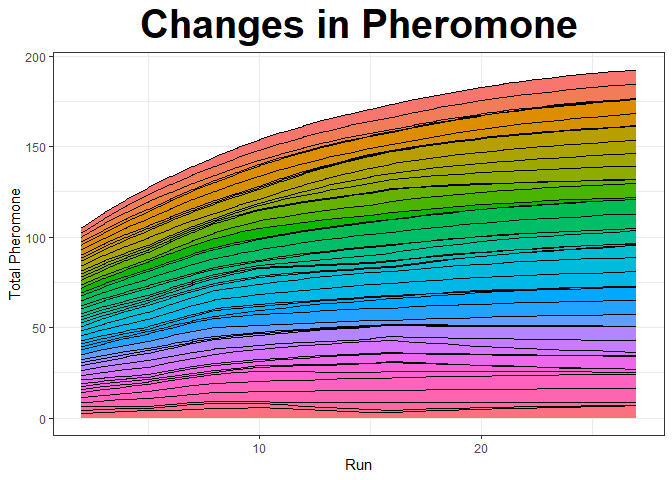
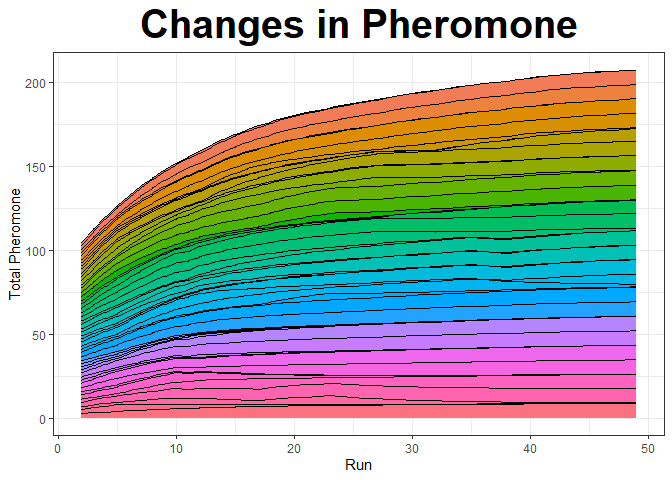
v0.5.4 updates

diff --git a/README.md b/README.md
@@ -21,7 +21,7 @@ Volume 25(2); not available online) used SA for multiple regression
 model selection; this package appears to be the first to implement SA
 for psychometric models.
 
-This document was created on 2023-12-12.
+This document was created on 2024-05-22.
 
 ## Installation
 
@@ -42,7 +42,7 @@ Intel Core i7 8th Gen processor is printed at the bottom. See the
 
 ``` r
 sessionInfo()
-##  R version 4.3.2 (2023-10-31 ucrt)
+##  R version 4.3.3 (2024-02-29 ucrt)
 ##  Platform: x86_64-w64-mingw32/x64 (64-bit)
 ##  Running under: Windows 11 x64 (build 22621)
 ##  
@@ -63,9 +63,9 @@ sessionInfo()
 ##  [1] stats     graphics  grDevices utils     datasets  methods   base     
 ##  
 ##  loaded via a namespace (and not attached):
-##   [1] compiler_4.3.2    fastmap_1.1.1     cli_3.6.1         tools_4.3.2      
-##   [5] htmltools_0.5.7   rstudioapi_0.15.0 yaml_2.3.7        rmarkdown_2.25   
-##   [9] knitr_1.45        xfun_0.41         digest_0.6.33     rlang_1.1.2      
+##   [1] compiler_4.3.3    fastmap_1.1.1     cli_3.6.2         tools_4.3.3      
+##   [5] htmltools_0.5.7   rstudioapi_0.15.0 yaml_2.3.8        rmarkdown_2.26   
+##   [9] knitr_1.45        xfun_0.42         digest_0.6.35     rlang_1.1.3      
 ##  [13] evaluate_0.23
 ```
 
@@ -74,7 +74,7 @@ sessionInfo()
 ``` r
 start.time.ACO <- Sys.time()
 library(ShortForm, quietly = T)
-##  Package 'ShortForm' version 0.5.3
+##  Package 'ShortForm' version 0.5.4
 # using simulated test data and the default values for lavaan.model.specs
 set.seed(1)
 # create simulation data from the `psych` package
@@ -143,10 +143,10 @@ abilityShortForm =
                    factors = c("Trait1", "Trait2", "Trait3", "Trait4"), steps = 100, 
                    max.run = 100, 
                    parallel = T)
-##   Run number 1 and ant number 1.            Run number 1 and ant number 2.            Run number 1 and ant number 3.            Run number 1 and ant number 4.            Run number 1 and ant number 5.            Run number 1 and ant number 6.            Run number 1 and ant number 7.            Run number 1 and ant number 8.            Run number 1 and ant number 9.            Run number 1 and ant number 10.            Run number 2 and ant number 1.            Run number 2 and ant number 2.            Run number 2 and ant number 3.            Run number 2 and ant number 4.            Run number 2 and ant number 5.            Run number 2 and ant number 6.            Run number 2 and ant number 7.            Run number 2 and ant number 8.            Run number 2 and ant number 9.            Run number 2 and ant number 10.            Run number 3 and ant number 1.            Run number 3 and ant number 2.            Run number 3 and ant number 3.            Run number 3 and ant number 4.            Run number 3 and ant number 5.            Run number 3 and ant number 6.            Run number 3 and ant number 7.            Run number 3 and ant number 8.            Run number 3 and ant number 9.            Run number 3 and ant number 10.            Run number 4 and ant number 1.            Run number 4 and ant number 2.            Run number 4 and ant number 3.            Run number 4 and ant number 4.            Run number 4 and ant number 5.            Run number 4 and ant number 6.            Run number 4 and ant number 7.            Run number 4 and ant number 8.            Run number 4 and ant number 9.            Run number 4 and ant number 10.            Run number 5 and ant number 1.            Run number 5 and ant number 2.            Run number 5 and ant number 3.            Run number 5 and ant number 4.            Run number 5 and ant number 5.            Run number 5 and ant number 6.            Run number 5 and ant number 7.            Run number 5 and ant number 8.            Run number 5 and ant number 9.            Run number 5 and ant number 10.            Run number 6 and ant number 1.            Run number 6 and ant number 2.            Run number 6 and ant number 3.            Run number 6 and ant number 4.            Run number 6 and ant number 5.            Run number 6 and ant number 6.            Run number 6 and ant number 7.            Run number 6 and ant number 8.            Run number 6 and ant number 9.            Run number 6 and ant number 10.            Run number 7 and ant number 1.            Run number 7 and ant number 2.            Run number 7 and ant number 3.            Run number 7 and ant number 4.            Run number 7 and ant number 5.            Run number 7 and ant number 6.            Run number 7 and ant number 7.            Run number 7 and ant number 8.            Run number 7 and ant number 9.            Run number 7 and ant number 10.            Run number 8 and ant number 1.            Run number 8 and ant number 2.            Run number 8 and ant number 3.            Run number 8 and ant number 4.            Run number 8 and ant number 5.            Run number 8 and ant number 6.            Run number 8 and ant number 7.            Run number 8 and ant number 8.            Run number 8 and ant number 9.            Run number 8 and ant number 10.            Run number 9 and ant number 1.            Run number 9 and ant number 2.            Run number 9 and ant number 3.            Run number 9 and ant number 4.            Run number 9 and ant number 5.            Run number 9 and ant number 6.            Run number 9 and ant number 7.            Run number 9 and ant number 8.            Run number 9 and ant number 9.            Run number 9 and ant number 10.            Run number 10 and ant number 1.            Run number 10 and ant number 2.            Run number 10 and ant number 3.            Run number 10 and ant number 4.            Run number 10 and ant number 5.            Run number 10 and ant number 6.            Run number 10 and ant number 7.            Run number 10 and ant number 8.            Run number 10 and ant number 9.            Run number 10 and ant number 10.            Run number 11 and ant number 1.            Run number 11 and ant number 2.            Run number 11 and ant number 3.            Run number 11 and ant number 4.            Run number 11 and ant number 5.            Run number 11 and ant number 6.            Run number 11 and ant number 7.            Run number 11 and ant number 8.            Run number 11 and ant number 9.            Run number 11 and ant number 10.            Run number 12 and ant number 1.            Run number 12 and ant number 2.            Run number 12 and ant number 3.            Run number 12 and ant number 4.            Run number 12 and ant number 5.            Run number 12 and ant number 6.            Run number 12 and ant number 7.            Run number 12 and ant number 8.            Run number 12 and ant number 9.            Run number 12 and ant number 10.            Run number 13 and ant number 1.            Run number 13 and ant number 2.            Run number 13 and ant number 3.            Run number 13 and ant number 4.            Run number 13 and ant number 5.            Run number 13 and ant number 6.            Run number 13 and ant number 7.            Run number 13 and ant number 8.            Run number 13 and ant number 9.            Run number 13 and ant number 10.            Run number 14 and ant number 1.            Run number 14 and ant number 2.            Run number 14 and ant number 3.            Run number 14 and ant number 4.            Run number 14 and ant number 5.            Run number 14 and ant number 6.            Run number 14 and ant number 7.            Run number 14 and ant number 8.            Run number 14 and ant number 9.            Run number 14 and ant number 10.            Run number 15 and ant number 1.            Run number 15 and ant number 2.            Run number 15 and ant number 3.            Run number 15 and ant number 4.            Run number 15 and ant number 5.            Run number 15 and ant number 6.            Run number 15 and ant number 7.            Run number 15 and ant number 8.            Run number 15 and ant number 9.            Run number 15 and ant number 10.            Run number 16 and ant number 1.            Run number 16 and ant number 2.            Run number 16 and ant number 3.            Run number 16 and ant number 4.            Run number 16 and ant number 5.            Run number 16 and ant number 6.            Run number 16 and ant number 7.            Run number 16 and ant number 8.            Run number 16 and ant number 9.            Run number 16 and ant number 10.            Run number 17 and ant number 1.            Run number 17 and ant number 2.            Run number 17 and ant number 3.            Run number 17 and ant number 4.            Run number 17 and ant number 5.            Run number 17 and ant number 6.            Run number 17 and ant number 7.            Run number 17 and ant number 8.            Run number 17 and ant number 9.            Run number 17 and ant number 10.            Run number 18 and ant number 1.            Run number 18 and ant number 2.            Run number 18 and ant number 3.            Run number 18 and ant number 4.            Run number 18 and ant number 5.            Run number 18 and ant number 6.            Run number 18 and ant number 7.            Run number 18 and ant number 8.            Run number 18 and ant number 9.            Run number 18 and ant number 10.            Run number 19 and ant number 1.            Run number 19 and ant number 2.            Run number 19 and ant number 3.            Run number 19 and ant number 4.            Run number 19 and ant number 5.            Run number 19 and ant number 6.            Run number 19 and ant number 7.            Run number 19 and ant number 8.            Run number 19 and ant number 9.            Run number 19 and ant number 10.            Run number 20 and ant number 1.            Run number 20 and ant number 2.            Run number 20 and ant number 3.            Run number 20 and ant number 4.            Run number 20 and ant number 5.            Run number 20 and ant number 6.            Run number 20 and ant number 7.            Run number 20 and ant number 8.            Run number 20 and ant number 9.            Run number 20 and ant number 10.            Run number 21 and ant number 1.            Run number 21 and ant number 2.            Run number 21 and ant number 3.            Run number 21 and ant number 4.            Run number 21 and ant number 5.            Run number 21 and ant number 6.            Run number 21 and ant number 7.            Run number 21 and ant number 8.            Run number 21 and ant number 9.            Run number 21 and ant number 10.            Run number 22 and ant number 1.            Run number 22 and ant number 2.            Run number 22 and ant number 3.            Run number 22 and ant number 4.            Run number 22 and ant number 5.            Run number 22 and ant number 6.            Run number 22 and ant number 7.            Run number 22 and ant number 8.            Run number 22 and ant number 9.            Run number 22 and ant number 10.            Run number 23 and ant number 1.            Run number 23 and ant number 2.            Run number 23 and ant number 3.            Run number 23 and ant number 4.            Run number 23 and ant number 5.            Run number 23 and ant number 6.            Run number 23 and ant number 7.            Run number 23 and ant number 8.            Run number 23 and ant number 9.            Run number 23 and ant number 10.            Run number 24 and ant number 1.            Run number 24 and ant number 2.            Run number 24 and ant number 3.            Run number 24 and ant number 4.            Run number 24 and ant number 5.            Run number 24 and ant number 6.            Run number 24 and ant number 7.            Run number 24 and ant number 8.            Run number 24 and ant number 9.            Run number 24 and ant number 10.            Run number 25 and ant number 1.            Run number 25 and ant number 2.            Run number 25 and ant number 3.            Run number 25 and ant number 4.            Run number 25 and ant number 5.            Run number 25 and ant number 6.            Run number 25 and ant number 7.            Run number 25 and ant number 8.            Run number 25 and ant number 9.            Run number 25 and ant number 10.            Run number 26 and ant number 1.            Run number 26 and ant number 2.            Run number 26 and ant number 3.            Run number 26 and ant number 4.            Run number 26 and ant number 5.            Run number 26 and ant number 6.            Run number 26 and ant number 7.            Run number 26 and ant number 8.            Run number 26 and ant number 9.            Run number 26 and ant number 10.           [1] "Compiling results."
+##   Run number 1 and ant number 1.            Run number 1 and ant number 2.            Run number 1 and ant number 3.            Run number 1 and ant number 4.            Run number 1 and ant number 5.            Run number 1 and ant number 6.            Run number 1 and ant number 7.            Run number 1 and ant number 8.            Run number 1 and ant number 9.            Run number 1 and ant number 10.            Run number 2 and ant number 1.            Run number 2 and ant number 2.            Run number 2 and ant number 3.            Run number 2 and ant number 4.            Run number 2 and ant number 5.            Run number 2 and ant number 6.            Run number 2 and ant number 7.            Run number 2 and ant number 8.            Run number 2 and ant number 9.            Run number 2 and ant number 10.            Run number 3 and ant number 1.            Run number 3 and ant number 2.            Run number 3 and ant number 3.            Run number 3 and ant number 4.            Run number 3 and ant number 5.            Run number 3 and ant number 6.            Run number 3 and ant number 7.            Run number 3 and ant number 8.            Run number 3 and ant number 9.            Run number 3 and ant number 10.            Run number 4 and ant number 1.            Run number 4 and ant number 2.            Run number 4 and ant number 3.            Run number 4 and ant number 4.            Run number 4 and ant number 5.            Run number 4 and ant number 6.            Run number 4 and ant number 7.            Run number 4 and ant number 8.            Run number 4 and ant number 9.            Run number 4 and ant number 10.            Run number 5 and ant number 1.            Run number 5 and ant number 2.            Run number 5 and ant number 3.            Run number 5 and ant number 4.            Run number 5 and ant number 5.            Run number 5 and ant number 6.            Run number 5 and ant number 7.            Run number 5 and ant number 8.            Run number 5 and ant number 9.            Run number 5 and ant number 10.            Run number 6 and ant number 1.            Run number 6 and ant number 2.            Run number 6 and ant number 3.            Run number 6 and ant number 4.            Run number 6 and ant number 5.            Run number 6 and ant number 6.            Run number 6 and ant number 7.            Run number 6 and ant number 8.            Run number 6 and ant number 9.            Run number 6 and ant number 10.            Run number 7 and ant number 1.            Run number 7 and ant number 2.            Run number 7 and ant number 3.            Run number 7 and ant number 4.            Run number 7 and ant number 5.            Run number 7 and ant number 6.            Run number 7 and ant number 7.            Run number 7 and ant number 8.            Run number 7 and ant number 9.            Run number 7 and ant number 10.            Run number 8 and ant number 1.            Run number 8 and ant number 2.            Run number 8 and ant number 3.            Run number 8 and ant number 4.            Run number 8 and ant number 5.            Run number 8 and ant number 6.            Run number 8 and ant number 7.            Run number 8 and ant number 8.            Run number 8 and ant number 9.            Run number 8 and ant number 10.            Run number 9 and ant number 1.            Run number 9 and ant number 2.            Run number 9 and ant number 3.            Run number 9 and ant number 4.            Run number 9 and ant number 5.            Run number 9 and ant number 6.            Run number 9 and ant number 7.            Run number 9 and ant number 8.            Run number 9 and ant number 9.            Run number 9 and ant number 10.            Run number 10 and ant number 1.            Run number 10 and ant number 2.            Run number 10 and ant number 3.            Run number 10 and ant number 4.            Run number 10 and ant number 5.            Run number 10 and ant number 6.            Run number 10 and ant number 7.            Run number 10 and ant number 8.            Run number 10 and ant number 9.            Run number 10 and ant number 10.            Run number 11 and ant number 1.            Run number 11 and ant number 2.            Run number 11 and ant number 3.            Run number 11 and ant number 4.            Run number 11 and ant number 5.            Run number 11 and ant number 6.            Run number 11 and ant number 7.            Run number 11 and ant number 8.            Run number 11 and ant number 9.            Run number 11 and ant number 10.            Run number 12 and ant number 1.            Run number 12 and ant number 2.            Run number 12 and ant number 3.            Run number 12 and ant number 4.            Run number 12 and ant number 5.            Run number 12 and ant number 6.            Run number 12 and ant number 7.            Run number 12 and ant number 8.            Run number 12 and ant number 9.            Run number 12 and ant number 10.            Run number 13 and ant number 1.            Run number 13 and ant number 2.            Run number 13 and ant number 3.            Run number 13 and ant number 4.            Run number 13 and ant number 5.            Run number 13 and ant number 6.            Run number 13 and ant number 7.            Run number 13 and ant number 8.            Run number 13 and ant number 9.            Run number 13 and ant number 10.            Run number 14 and ant number 1.            Run number 14 and ant number 2.            Run number 14 and ant number 3.            Run number 14 and ant number 4.            Run number 14 and ant number 5.            Run number 14 and ant number 6.            Run number 14 and ant number 7.            Run number 14 and ant number 8.            Run number 14 and ant number 9.            Run number 14 and ant number 10.            Run number 15 and ant number 1.            Run number 15 and ant number 2.            Run number 15 and ant number 3.            Run number 15 and ant number 4.            Run number 15 and ant number 5.            Run number 15 and ant number 6.            Run number 15 and ant number 7.            Run number 15 and ant number 8.            Run number 15 and ant number 9.            Run number 15 and ant number 10.            Run number 16 and ant number 1.            Run number 16 and ant number 2.            Run number 16 and ant number 3.            Run number 16 and ant number 4.            Run number 16 and ant number 5.            Run number 16 and ant number 6.            Run number 16 and ant number 7.            Run number 16 and ant number 8.            Run number 16 and ant number 9.            Run number 16 and ant number 10.            Run number 17 and ant number 1.            Run number 17 and ant number 2.            Run number 17 and ant number 3.            Run number 17 and ant number 4.            Run number 17 and ant number 5.            Run number 17 and ant number 6.            Run number 17 and ant number 7.            Run number 17 and ant number 8.            Run number 17 and ant number 9.            Run number 17 and ant number 10.            Run number 18 and ant number 1.            Run number 18 and ant number 2.            Run number 18 and ant number 3.            Run number 18 and ant number 4.            Run number 18 and ant number 5.            Run number 18 and ant number 6.            Run number 18 and ant number 7.            Run number 18 and ant number 8.            Run number 18 and ant number 9.            Run number 18 and ant number 10.            Run number 19 and ant number 1.            Run number 19 and ant number 2.            Run number 19 and ant number 3.            Run number 19 and ant number 4.            Run number 19 and ant number 5.            Run number 19 and ant number 6.            Run number 19 and ant number 7.            Run number 19 and ant number 8.            Run number 19 and ant number 9.            Run number 19 and ant number 10.            Run number 20 and ant number 1.            Run number 20 and ant number 2.            Run number 20 and ant number 3.            Run number 20 and ant number 4.            Run number 20 and ant number 5.            Run number 20 and ant number 6.            Run number 20 and ant number 7.            Run number 20 and ant number 8.            Run number 20 and ant number 9.            Run number 20 and ant number 10.            Run number 21 and ant number 1.            Run number 21 and ant number 2.            Run number 21 and ant number 3.            Run number 21 and ant number 4.            Run number 21 and ant number 5.            Run number 21 and ant number 6.            Run number 21 and ant number 7.            Run number 21 and ant number 8.            Run number 21 and ant number 9.            Run number 21 and ant number 10.            Run number 22 and ant number 1.            Run number 22 and ant number 2.            Run number 22 and ant number 3.            Run number 22 and ant number 4.            Run number 22 and ant number 5.            Run number 22 and ant number 6.            Run number 22 and ant number 7.            Run number 22 and ant number 8.            Run number 22 and ant number 9.            Run number 22 and ant number 10.            Run number 23 and ant number 1.            Run number 23 and ant number 2.            Run number 23 and ant number 3.            Run number 23 and ant number 4.            Run number 23 and ant number 5.            Run number 23 and ant number 6.            Run number 23 and ant number 7.            Run number 23 and ant number 8.            Run number 23 and ant number 9.            Run number 23 and ant number 10.            Run number 24 and ant number 1.            Run number 24 and ant number 2.            Run number 24 and ant number 3.            Run number 24 and ant number 4.            Run number 24 and ant number 5.            Run number 24 and ant number 6.            Run number 24 and ant number 7.            Run number 24 and ant number 8.            Run number 24 and ant number 9.            Run number 24 and ant number 10.            Run number 25 and ant number 1.            Run number 25 and ant number 2.            Run number 25 and ant number 3.            Run number 25 and ant number 4.            Run number 25 and ant number 5.            Run number 25 and ant number 6.            Run number 25 and ant number 7.            Run number 25 and ant number 8.            Run number 25 and ant number 9.            Run number 25 and ant number 10.            Run number 26 and ant number 1.            Run number 26 and ant number 2.            Run number 26 and ant number 3.            Run number 26 and ant number 4.            Run number 26 and ant number 5.            Run number 26 and ant number 6.            Run number 26 and ant number 7.            Run number 26 and ant number 8.            Run number 26 and ant number 9.            Run number 26 and ant number 10.            Run number 27 and ant number 1.            Run number 27 and ant number 2.            Run number 27 and ant number 3.            Run number 27 and ant number 4.            Run number 27 and ant number 5.            Run number 27 and ant number 6.            Run number 27 and ant number 7.            Run number 27 and ant number 8.            Run number 27 and ant number 9.            Run number 27 and ant number 10.            Run number 28 and ant number 1.            Run number 28 and ant number 2.            Run number 28 and ant number 3.            Run number 28 and ant number 4.            Run number 28 and ant number 5.            Run number 28 and ant number 6.            Run number 28 and ant number 7.            Run number 28 and ant number 8.            Run number 28 and ant number 9.            Run number 28 and ant number 10.            Run number 29 and ant number 1.            Run number 29 and ant number 2.            Run number 29 and ant number 3.            Run number 29 and ant number 4.            Run number 29 and ant number 5.            Run number 29 and ant number 6.            Run number 29 and ant number 7.            Run number 29 and ant number 8.            Run number 29 and ant number 9.            Run number 29 and ant number 10.            Run number 30 and ant number 1.            Run number 30 and ant number 2.            Run number 30 and ant number 3.            Run number 30 and ant number 4.            Run number 30 and ant number 5.            Run number 30 and ant number 6.            Run number 30 and ant number 7.            Run number 30 and ant number 8.            Run number 30 and ant number 9.            Run number 30 and ant number 10.            Run number 31 and ant number 1.            Run number 31 and ant number 2.            Run number 31 and ant number 3.            Run number 31 and ant number 4.            Run number 31 and ant number 5.            Run number 31 and ant number 6.            Run number 31 and ant number 7.            Run number 31 and ant number 8.            Run number 31 and ant number 9.            Run number 31 and ant number 10.            Run number 32 and ant number 1.            Run number 32 and ant number 2.            Run number 32 and ant number 3.            Run number 32 and ant number 4.            Run number 32 and ant number 5.            Run number 32 and ant number 6.            Run number 32 and ant number 7.            Run number 32 and ant number 8.            Run number 32 and ant number 9.            Run number 32 and ant number 10.            Run number 33 and ant number 1.            Run number 33 and ant number 2.            Run number 33 and ant number 3.            Run number 33 and ant number 4.            Run number 33 and ant number 5.            Run number 33 and ant number 6.            Run number 33 and ant number 7.            Run number 33 and ant number 8.            Run number 33 and ant number 9.            Run number 33 and ant number 10.            Run number 34 and ant number 1.            Run number 34 and ant number 2.            Run number 34 and ant number 3.            Run number 34 and ant number 4.            Run number 34 and ant number 5.            Run number 34 and ant number 6.            Run number 34 and ant number 7.            Run number 34 and ant number 8.            Run number 34 and ant number 9.            Run number 34 and ant number 10.            Run number 35 and ant number 1.            Run number 35 and ant number 2.            Run number 35 and ant number 3.            Run number 35 and ant number 4.            Run number 35 and ant number 5.            Run number 35 and ant number 6.            Run number 35 and ant number 7.            Run number 35 and ant number 8.            Run number 35 and ant number 9.            Run number 35 and ant number 10.            Run number 36 and ant number 1.            Run number 36 and ant number 2.            Run number 36 and ant number 3.            Run number 36 and ant number 4.            Run number 36 and ant number 5.            Run number 36 and ant number 6.            Run number 36 and ant number 7.            Run number 36 and ant number 8.            Run number 36 and ant number 9.            Run number 36 and ant number 10.            Run number 37 and ant number 1.            Run number 37 and ant number 2.            Run number 37 and ant number 3.            Run number 37 and ant number 4.            Run number 37 and ant number 5.            Run number 37 and ant number 6.            Run number 37 and ant number 7.            Run number 37 and ant number 8.            Run number 37 and ant number 9.            Run number 37 and ant number 10.            Run number 38 and ant number 1.            Run number 38 and ant number 2.            Run number 38 and ant number 3.            Run number 38 and ant number 4.            Run number 38 and ant number 5.            Run number 38 and ant number 6.            Run number 38 and ant number 7.            Run number 38 and ant number 8.            Run number 38 and ant number 9.            Run number 38 and ant number 10.            Run number 39 and ant number 1.            Run number 39 and ant number 2.            Run number 39 and ant number 3.            Run number 39 and ant number 4.            Run number 39 and ant number 5.            Run number 39 and ant number 6.            Run number 39 and ant number 7.            Run number 39 and ant number 8.            Run number 39 and ant number 9.            Run number 39 and ant number 10.            Run number 40 and ant number 1.            Run number 40 and ant number 2.            Run number 40 and ant number 3.            Run number 40 and ant number 4.            Run number 40 and ant number 5.            Run number 40 and ant number 6.            Run number 40 and ant number 7.            Run number 40 and ant number 8.            Run number 40 and ant number 9.            Run number 40 and ant number 10.            Run number 41 and ant number 1.            Run number 41 and ant number 2.            Run number 41 and ant number 3.            Run number 41 and ant number 4.            Run number 41 and ant number 5.            Run number 41 and ant number 6.            Run number 41 and ant number 7.            Run number 41 and ant number 8.            Run number 41 and ant number 9.            Run number 41 and ant number 10.            Run number 42 and ant number 1.            Run number 42 and ant number 2.            Run number 42 and ant number 3.            Run number 42 and ant number 4.            Run number 42 and ant number 5.            Run number 42 and ant number 6.            Run number 42 and ant number 7.            Run number 42 and ant number 8.            Run number 42 and ant number 9.            Run number 42 and ant number 10.            Run number 43 and ant number 1.            Run number 43 and ant number 2.            Run number 43 and ant number 3.            Run number 43 and ant number 4.            Run number 43 and ant number 5.            Run number 43 and ant number 6.            Run number 43 and ant number 7.            Run number 43 and ant number 8.            Run number 43 and ant number 9.            Run number 43 and ant number 10.            Run number 44 and ant number 1.            Run number 44 and ant number 2.            Run number 44 and ant number 3.            Run number 44 and ant number 4.            Run number 44 and ant number 5.            Run number 44 and ant number 6.            Run number 44 and ant number 7.            Run number 44 and ant number 8.            Run number 44 and ant number 9.            Run number 44 and ant number 10.            Run number 45 and ant number 1.            Run number 45 and ant number 2.            Run number 45 and ant number 3.            Run number 45 and ant number 4.            Run number 45 and ant number 5.            Run number 45 and ant number 6.            Run number 45 and ant number 7.            Run number 45 and ant number 8.            Run number 45 and ant number 9.            Run number 45 and ant number 10.            Run number 46 and ant number 1.            Run number 46 and ant number 2.            Run number 46 and ant number 3.            Run number 46 and ant number 4.            Run number 46 and ant number 5.            Run number 46 and ant number 6.            Run number 46 and ant number 7.            Run number 46 and ant number 8.            Run number 46 and ant number 9.            Run number 46 and ant number 10.            Run number 47 and ant number 1.            Run number 47 and ant number 2.            Run number 47 and ant number 3.            Run number 47 and ant number 4.            Run number 47 and ant number 5.            Run number 47 and ant number 6.            Run number 47 and ant number 7.            Run number 47 and ant number 8.            Run number 47 and ant number 9.            Run number 47 and ant number 10.            Run number 48 and ant number 1.            Run number 48 and ant number 2.            Run number 48 and ant number 3.            Run number 48 and ant number 4.            Run number 48 and ant number 5.            Run number 48 and ant number 6.            Run number 48 and ant number 7.            Run number 48 and ant number 8.            Run number 48 and ant number 9.            Run number 48 and ant number 10.           [1] "Compiling results."
 abilityShortForm # print the results of the final short form
 ##  Algorithm: Ant Colony Optimization
-##  Total Run Time: 44.15 secs
+##  Total Run Time: 1.015 mins
 ##  
 ##  Function call:
 ##  antcolony.lavaan(data = antData, ants = 10, evaporation = 0.9, antModel =
@@ -159,10 +159,10 @@ abilityShortForm # print the results of the final short form
 ##  
 ##  Final Model Syntax:
 ##  
-##  Trait1 =~ Item1 + Item5 + Item10 + Item9 + Item2 + Item6
-##  Trait2 =~ Item17 + Item19 + Item13 + Item14 + Item22 + Item18
-##  Trait3 =~ Item26 + Item25 + Item34 + Item33 + Item29 + Item32
-##  Trait4 =~ Item41 + Item42 + Item37 + Item39 + Item45 + Item38
+##  Trait1 =~ Item9 + Item2 + Item10 + Item5 + Item11 + Item6
+##  Trait2 =~ Item21 + Item14 + Item13 + Item22 + Item18 + Item17
+##  Trait3 =~ Item29 + Item34 + Item25 + Item30 + Item33 + Item26
+##  Trait4 =~ Item45 + Item46 + Item41 + Item38 + Item37 + Item42
 plot(abilityShortForm, type = 'pheromone') # the pheromone plot for class "antcolony"
 ```
 
@@ -170,7 +170,7 @@ plot(abilityShortForm, type = 'pheromone') # the pheromone plot for class "antco
 
 A similar example can be found in the `antcolony.mplus` function, but
 requires you to have a valid Mplus installation on the computer. It took
-a total of 46.64 secs to run this example.
+a total of 1.06 mins to run this example.
 
 ### Tabu Search Algorithm
 
@@ -237,9 +237,9 @@ Tabu_example <-
 # check the final model
 summary(Tabu_example)
 ##  Algorithm: Tabu Search
-##  Total Run Time: 2.216 mins
+##  Total Run Time: 1.908 mins
 ##  
-##  lavaan 0.6.16 ended normally after 32 iterations
+##  lavaan 0.6.17 ended normally after 32 iterations
 ##  
 ##    Estimator                                         ML
 ##    Optimization method                           NLMINB
@@ -265,7 +265,7 @@ plot(Tabu_example)
 
 ![](README-Tabu%20example-1.png)<!-- -->
 
-It took a total of 2.23 mins to run this example.
+It took a total of 1.92 mins to run this example.
 
 The next Tabu example demonstrates how to use it to find a short form of
 a prespecified length with different data.
@@ -338,9 +338,9 @@ tabuShort <-
 # check the chosen model
 summary(tabuShort)
 ##  Algorithm: Tabu Search
-##  Total Run Time: 3.115 mins
+##  Total Run Time: 2.137 mins
 ##  
-##  lavaan 0.6.16 ended normally after 32 iterations
+##  lavaan 0.6.17 ended normally after 32 iterations
 ##  
 ##    Estimator                                         ML
 ##    Optimization method                           NLMINB
@@ -366,7 +366,7 @@ plot(tabuShort)
 
 ![](README-Tabu%20short%20form-1.png)<!-- -->
 
-It took a total of 3.13 mins to run this example.
+It took a total of 2.14 mins to run this example.
 
 ### Simulated Annealing
 
@@ -450,9 +450,9 @@ SA_example <-
 ##  Chain number 4 complete.
 summary(SA_example)
 ##  Algorithm: Simulated Annealing
-##  Total Run Time: 57.893 secs
+##  Total Run Time: 41.456 secs
 ##  
-##  lavaan 0.6.16 ended normally after 32 iterations
+##  lavaan 0.6.17 ended normally after 33 iterations
 ##  
 ##    Estimator                                         ML
 ##    Optimization method                           NLMINB
@@ -462,20 +462,20 @@ summary(SA_example)
 ##  
 ##  Model Test User Model:
 ##                                                        
-##    Test statistic                               358.046
+##    Test statistic                               367.147
 ##    Degrees of freedom                               246
 ##    P-value (Chi-square)                           0.000
 ##  
 ##  
 ##  Final Model Syntax:
-##  Trait1 =~ Item5 + Item1 + Item10 + Item9 + Item3 + Item2
-##  Trait2 =~ Item14 + Item13 + Item21 + Item16 + Item22 + Item17
-##  Trait3 =~ Item29 + Item34 + Item28 + Item33 + Item32 + Item25
-##  Trait4 =~ Item43 + Item46 + Item40 + Item41 + Item44 + Item37
+##  Trait1 =~ Item11 + Item2 + Item3 + Item6 + Item4 + Item9
+##  Trait2 =~ Item17 + Item21 + Item13 + Item24 + Item16 + Item23
+##  Trait3 =~ Item26 + Item35 + Item33 + Item34 + Item30 + Item25
+##  Trait4 =~ Item43 + Item37 + Item42 + Item40 + Item38 + Item46
 plot(SA_example) # plot showing how the fit value changes at each step
 ```
 
 ![](README-Simulated%20Annealing%20example-1.png)<!-- -->
 
-It took a total of 59.36 secs to run the SA example, and a total of 7.12
+It took a total of 42.09 secs to run the SA example, and a total of 5.82
 mins to run all four together.

diff --git a/NEWS.md b/NEWS.md
@@ -3,6 +3,11 @@
 
 # *News*
 
+# ShortForm v0.5.4
+
+- Updates to handle changes to `lavaan` error/warning messages
+- Fixed internal documentation to match current standards
+
 # ShortForm v0.5.3
 
 - Updates to antcolony.lavaan default `lavaan.model.specs`
